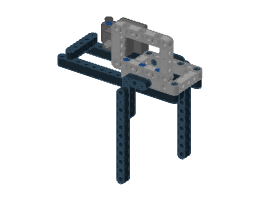
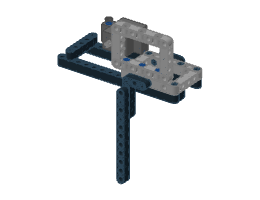
v3: 平台支腿接到底座大框（用户指出支腿只踩在桌面上）
贴着大框长边外侧的那根支腿：11 孔竖梁上移一个孔，下端接一根倒放的 3x5 L 形梁，
短臂用 1 个摩擦销插进大框长边的侧孔。平台一头用销接竖墙、一头经这根支腿接底座，形成闭环。
为了能装上（销都沿同一方向插），这根竖梁和它的 4 个销挪到“装平台”这一步，最后从外面压上去。
另一根支腿在大框开口里，没有能对上的孔，仍踩在桌面上，只承受竖直方向的力。
第 11 步改为从另一侧、只取景当前模块，看得到这处连接。run_check 0 问题，four_arm 不变，单元测试通过。

Claude-Session: https://claude.ai/code/session_01Ms6v6oKbLQsBqZ2uktk7cX

Changed region(s): [[0.6769, 0.42, 0.7385, 0.81], [0.7077, 0.3, 0.7385, 0.33]]

diff --git a/docs/lego/v3/index.html b/docs/lego/v3/index.html
@@ -98,7 +98,7 @@ ul.plain{margin:0;padding-left:1.2em;display:grid;gap:6px;max-width:70ch}
 <h1>四臂整机: 死点锁紧夹爪 + 不随转的舵机</h1>
 <p class="lead">v2 解决了 "机械臂挂在马达输出轴上" 的问题, 但它仍然是一只单臂, 转动部分又长又重, 舵机跟着转。CubeStormer 3 这一级别的机器, 专业性体现在整机: 四只机械手又短又轻、夹得住也松得开、能连续旋转, 四只之间互不干涉。v3 按这个目标从整机重新设计, 自成一套模型和检查。之前的版本都保留不动: <a href="https://claude.ai/artifact/BWgtEpkX4PGRGnYzvNV2L4">v1 大马达版</a>、<a href="https://claude.ai/artifact/9yGEt1ogaxxmStkyxYWYBL">v2 转盘版</a>。</p>
 <div class="plate"><img src="img/cover.png" alt="四臂整机总览" class="" loading="lazy" width="1400" height="900"></div>
-<div class="facts"><div class="fact"><b>20</b><span>个步骤 (一个模块的完整步骤, 其余三个照做)</span></div><div class="fact"><b>500</b><span>个乐高零件, 另加 EV3 大马达和 Geekservo 各 4 个</span></div><div class="fact"><b>约 52 mm</b><span>转动部分长度 (v2 约 144mm)</span></div><div class="fact"><b>无限</b><span>机械手旋转范围 (舵机不跟着转)</span></div></div>
+<div class="facts"><div class="fact"><b>20</b><span>个步骤 (一个模块的完整步骤, 其余三个照做)</span></div><div class="fact"><b>516</b><span>个乐高零件, 另加 EV3 大马达和 Geekservo 各 4 个</span></div><div class="fact"><b>约 52 mm</b><span>转动部分长度 (v2 约 144mm)</span></div><div class="fact"><b>无限</b><span>机械手旋转范围 (舵机不跟着转)</span></div></div>
 <script type="importmap">{"imports":{"three":"https://cdn.jsdelivr.net/npm/three@0.170.0/build/three.module.js","three/addons/":"https://cdn.jsdelivr.net/npm/three@0.170.0/examples/jsm/"}}</script>
 <section id="v3d-sec" class="cover"><h2>3D 模型 (可旋转)</h2><p class="cap">拖动旋转, 滚轮或双指缩放, 右键或双指拖动平移。滑块选到第几步, 就显示到那一步为止的零件, 这一步新加的零件会提亮。</p><div id="v3d" class="plate"><div id="v3d-status">正在加载 3D 模型 (约 0.6 MB)…</div></div><div class="v3d-bar"><input id="v3d-step" type="range" min="1" max="1" value="1" disabled aria-label="步骤"><span id="v3d-label"></span><button id="v3d-fit" type="button">复位</button></div><script>window.V3D_STEPS = ["底座", "竖墙", "转盘下半", "马达尾脚", "马达前梁", "齿轮", "装竖墙", "装马达", "舵机平台", "舵机", "装平台", "十字块和舵机连杆", "侧板与夹指架", "转盘上半", "夹指", "连杆与十字接头", "推杆", "装机械头", "装另外三个机械手", "放入魔方"];</script><script type="module" src="viewer.js"></script></section>
 <nav class="toc"><a href="#v3d-sec">3D 模型</a><a href="#eval">v2 评估</a><a href="#idea">设计思路</a><a href="#four">四臂检查</a><a href="#buy">要买的零件</a><a href="#bom">零件清单</a><a href="#s1">1. 底座</a><a href="#s2">2. 竖墙</a><a href="#s3">3. 转盘下半</a><a href="#s4">4. 马达尾脚</a><a href="#s5">5. 马达前梁</a><a href="#s6">6. 齿轮</a><a href="#s7">7. 装竖墙</a><a href="#s8">8. 装马达</a><a href="#s9">9. 舵机平台</a><a href="#s10">10. 舵机</a><a href="#s11">11. 装平台</a><a href="#s12">12. 十字块和舵机连杆</a><a href="#s13">13. 侧板与夹指架</a><a href="#s14">14. 转盘上半</a><a href="#s15">15. 夹指</a><a href="#s16">16. 连杆与十字接头</a><a href="#s17">17. 推杆</a><a href="#s18">18. 装机械头</a><a href="#s19">19. 装另外三个机械手</a><a href="#s20">20. 放入魔方</a><a href="#checks">检查与待验证</a><a href="#safety">上电前</a></nav>
@@ -120,7 +120,7 @@ ul.plain{margin:0;padding-left:1.2em;display:grid;gap:6px;max-width:70ch}
 <div class="note"><b>相邻两只机械手不能同时水平。</b>这是任何从外侧夹住魔方的夹爪都有的几何限制: 两只相邻机械手都转到水平时, 两副夹指会在魔方棱边外面的同一个位置相遇。v3 把它写进了规划器的可选约束 (<code>python -m quadcuber plan ... --no-adjacent-horizontal</code>): 转动中的机械手, 两侧邻居必须竖直且不同时转动。按现在的估算耗时, 20 步随机序列平均从 7.95 秒变成 9.69 秒 (约 +22%)。</div>
 </section>
 <section id="buy" class="cover"><h2>要买的零件</h2>
-<div class="tbl"><table><tr><th>零件</th><th>编号</th><th>整机</th><th>45680 里有</th><th>还要买</th><th>说明</th></tr><tr><td>60 齿转盘 上半 + 下半 (套)</td><td>18938 + 18939</td><td>4</td><td>2</td><td>2</td><td>每只机械手 1 套</td></tr><tr><td>36 齿双面锥齿轮</td><td>32498</td><td>4</td><td>2</td><td>2</td><td>和转盘外圈啮合</td></tr><tr><td>15x11 大框</td><td>39790</td><td>4</td><td>4</td><td>不用买</td><td>底座, 每个模块 1 块</td></tr><tr><td>7x5 框架</td><td>64179</td><td>20</td><td>8</td><td>12</td><td>每个模块 5 块 (竖墙 3、推杆导向 1、平台前半 1)</td></tr><tr><td>3x5 L 形粗梁</td><td>32526</td><td>28</td><td>10</td><td>18</td><td>机械头侧板每侧 2 根, 平台支腿每侧 1 根, 底座每个角 1 根</td></tr><tr><td>15 孔粗梁</td><td>32278</td><td>16</td><td>6</td><td>10</td><td>平台下 2 根, 底座每个角 2 根</td></tr><tr><td>11 孔粗梁</td><td>32525</td><td>12</td><td>6</td><td>6</td><td>支腿竖梁、马达前端</td></tr><tr><td>9 孔粗梁</td><td>40490</td><td>12</td><td>8</td><td>4</td><td>马达前端、机械头</td></tr><tr><td>7 孔粗梁</td><td>32524</td><td>12</td><td>6</td><td>6</td><td>夹指、马达尾脚</td></tr><tr><td>5 孔粗梁</td><td>32316</td><td>20</td><td>8</td><td>12</td><td>舵机垫块、连杆、平台后端横撑</td></tr><tr><td>3 孔粗梁</td><td>32523</td><td>4</td><td>10</td><td>不用买</td><td>马达颈部</td></tr><tr><td>摩擦销</td><td>2780</td><td>236</td><td>80</td><td>156</td><td>多买一些备用</td></tr><tr><td>蓝色长摩擦销</td><td>6558</td><td>24</td><td>36</td><td>不用买</td><td></td></tr><tr><td>带挡套长销</td><td>32054</td><td>16</td><td>12</td><td>4</td><td>转盘下半和马达耳朵</td></tr><tr><td>无摩擦销 / 无摩擦长销</td><td>3673 / 32556a</td><td>—</td><td>—</td><td>—</td><td>夹爪的活动关节: 8 / 4</td></tr><tr><td>2 号 / 5 号 / 7 号 / 12 号轴</td><td>32062 / 32073 / 44294 / 3708</td><td>—</td><td>—</td><td>—</td><td>8 / 8 / 4 / 4</td></tr><tr><td>轴套 / 半轴套</td><td>3713 / 32123</td><td>—</td><td>—</td><td>—</td><td>20 / 16</td></tr><tr><td>十字轴接头 (带圆孔) / 十字块 1x2 / 2 孔细梁</td><td>32039 / 6536 / 41677</td><td>—</td><td>—</td><td>—</td><td>各 4</td></tr><tr><td>EV3 大马达 / Geekservo 灰色</td><td>—</td><td>—</td><td>—</td><td>—</td><td>4 / 4; 现在只有 2 个大马达, 还缺 2 个</td></tr></table></div>
+<div class="tbl"><table><tr><th>零件</th><th>编号</th><th>整机</th><th>45680 里有</th><th>还要买</th><th>说明</th></tr><tr><td>60 齿转盘 上半 + 下半 (套)</td><td>18938 + 18939</td><td>4</td><td>2</td><td>2</td><td>每只机械手 1 套</td></tr><tr><td>36 齿双面锥齿轮</td><td>32498</td><td>4</td><td>2</td><td>2</td><td>和转盘外圈啮合</td></tr><tr><td>15x11 大框</td><td>39790</td><td>4</td><td>4</td><td>不用买</td><td>底座, 每个模块 1 块</td></tr><tr><td>7x5 框架</td><td>64179</td><td>20</td><td>8</td><td>12</td><td>每个模块 5 块 (竖墙 3、推杆导向 1、平台前半 1)</td></tr><tr><td>3x5 L 形粗梁</td><td>32526</td><td>32</td><td>10</td><td>22</td><td>机械头侧板每侧 2 根, 平台支腿每侧 1 根, 底座每个角 1 根</td></tr><tr><td>15 孔粗梁</td><td>32278</td><td>16</td><td>6</td><td>10</td><td>平台下 2 根, 底座每个角 2 根</td></tr><tr><td>11 孔粗梁</td><td>32525</td><td>12</td><td>6</td><td>6</td><td>支腿竖梁、马达前端</td></tr><tr><td>9 孔粗梁</td><td>40490</td><td>12</td><td>8</td><td>4</td><td>马达前端、机械头</td></tr><tr><td>7 孔粗梁</td><td>32524</td><td>12</td><td>6</td><td>6</td><td>夹指、马达尾脚</td></tr><tr><td>5 孔粗梁</td><td>32316</td><td>20</td><td>8</td><td>12</td><td>舵机垫块、连杆、平台后端横撑</td></tr><tr><td>3 孔粗梁</td><td>32523</td><td>4</td><td>10</td><td>不用买</td><td>马达颈部</td></tr><tr><td>摩擦销</td><td>2780</td><td>248</td><td>80</td><td>168</td><td>多买一些备用</td></tr><tr><td>蓝色长摩擦销</td><td>6558</td><td>24</td><td>36</td><td>不用买</td><td></td></tr><tr><td>带挡套长销</td><td>32054</td><td>16</td><td>12</td><td>4</td><td>转盘下半和马达耳朵</td></tr><tr><td>无摩擦销 / 无摩擦长销</td><td>3673 / 32556a</td><td>—</td><td>—</td><td>—</td><td>夹爪的活动关节: 8 / 4</td></tr><tr><td>2 号 / 5 号 / 7 号 / 12 号轴</td><td>32062 / 32073 / 44294 / 3708</td><td>—</td><td>—</td><td>—</td><td>8 / 8 / 4 / 4</td></tr><tr><td>轴套 / 半轴套</td><td>3713 / 32123</td><td>—</td><td>—</td><td>—</td><td>20 / 16</td></tr><tr><td>十字轴接头 (带圆孔) / 十字块 1x2 / 2 孔细梁</td><td>32039 / 6536 / 41677</td><td>—</td><td>—</td><td>—</td><td>各 4</td></tr><tr><td>EV3 大马达 / Geekservo 灰色</td><td>—</td><td>—</td><td>—</td><td>—</td><td>4 / 4; 现在只有 2 个大马达, 还缺 2 个</td></tr></table></div>
 <p class="cap">"45680 里有" 按 Brickset 的 45680 (SPIKE Prime 扩展套装) 零件清单, 不分颜色; 最后几行 45680 里没有或数量对不上型号的, 按 "说明" 里的数量买。你手上其他零件没算进去。</p>
 <p class="cap">可以先只搭一个模块 (底座只要它那一块大框) 做单臂实测, 验证夹持和转速后再买齐四套。</p>
 </section>
@@ -138,7 +138,7 @@ ul.plain{margin:0;padding-left:1.2em;display:grid;gap:6px;max-width:70ch}
 <div class="item"><img src="img/part_32524_4.png" alt="7 孔粗梁" class="" loading="lazy" width="260" height="200"><div class="qty">8×</div><div>7 孔粗梁</div><div class="mono">32524</div></div>
 <div class="item"><img src="img/part_32525_0.png" alt="11 孔粗梁" class="" loading="lazy" width="260" height="200"><div class="qty">12×</div><div>11 孔粗梁</div><div class="mono">32525</div></div>
 <div class="item"><img src="img/part_32526_72.png" alt="3x5 L 形粗梁" class="" loading="lazy" width="260" height="200"><div class="qty">4×</div><div>3x5 L 形粗梁</div><div class="mono">32526</div></div>
-<div class="item"><img src="img/part_32526_0.png" alt="3x5 L 形粗梁" class="" loading="lazy" width="260" height="200"><div class="qty">8×</div><div>3x5 L 形粗梁</div><div class="mono">32526</div></div>
+<div class="item"><img src="img/part_32526_0.png" alt="3x5 L 形粗梁" class="" loading="lazy" width="260" height="200"><div class="qty">12×</div><div>3x5 L 形粗梁</div><div class="mono">32526</div></div>
 <div class="item"><img src="img/part_32526_71.png" alt="3x5 L 形粗梁" class="" loading="lazy" width="260" height="200"><div class="qty">16×</div><div>3x5 L 形粗梁</div><div class="mono">32526</div></div>
 <div class="item"><img src="img/part_39790_72.png" alt="15x11 大框 (45680 套装)" class="" loading="lazy" width="260" height="200"><div class="qty">4×</div><div>15x11 大框 (45680 套装)</div><div class="mono">39790</div></div>
 <div class="item"><img src="img/part_40490_0.png" alt="9 孔粗梁" class="" loading="lazy" width="260" height="200"><div class="qty">12×</div><div>9 孔粗梁</div><div class="mono">40490</div></div>
@@ -147,7 +147,7 @@ ul.plain{margin:0;padding-left:1.2em;display:grid;gap:6px;max-width:70ch}
 <div class="item"><img src="img/part_6536_0.png" alt="十字块 1x2 (十字孔 + 圆孔)" class="" loading="lazy" width="260" height="200"><div class="qty">4×</div><div>十字块 1x2 (十字孔 + 圆孔)</div><div class="mono">6536</div></div>
 <div class="item"><img src="img/part_95658_15.png" alt="EV3 大马达" class="" loading="lazy" width="260" height="200"><div class="qty">4×</div><div>EV3 大马达</div><div class="mono">95658</div></div>
 <div class="item"><img src="img/part_geekservo_72.png" alt="Geekservo 舵机 (灰色, 270°)" class="" loading="lazy" width="260" height="200"><div class="qty">4×</div><div>Geekservo 舵机 (灰色, 270°)</div><div class="mono">geekservo</div></div>
-<div class="item"><img src="img/part_2780_0.png" alt="摩擦销 (2 孔长)" class="" loading="lazy" width="260" height="200"><div class="qty">236×</div><div>摩擦销 (2 孔长)</div><div class="mono">2780</div></div>
+<div class="item"><img src="img/part_2780_0.png" alt="摩擦销 (2 孔长)" class="" loading="lazy" width="260" height="200"><div class="qty">248×</div><div>摩擦销 (2 孔长)</div><div class="mono">2780</div></div>
 <div class="item"><img src="img/part_32054_4.png" alt="带挡套长销 (3 孔长, 红色)" class="" loading="lazy" width="260" height="200"><div class="qty">16×</div><div>带挡套长销 (3 孔长, 红色)</div><div class="mono">32054</div></div>
 <div class="item"><img src="img/part_32062_0.png" alt="2 号轴" class="" loading="lazy" width="260" height="200"><div class="qty">8×</div><div>2 号轴</div><div class="mono">32062</div></div>
 <div class="item"><img src="img/part_32073_0.png" alt="5 号轴" class="" loading="lazy" width="260" height="200"><div class="qty">8×</div><div>5 号轴</div><div class="mono">32073</div></div>
@@ -244,9 +244,9 @@ ul.plain{margin:0;padding-left:1.2em;display:grid;gap:6px;max-width:70ch}
 <div class="subtag">子组件 · 平台</div>
 <h3>舵机平台</h3></div>
 </div>
-<div class="callout"><div class="chip"><img src="img/part_64179_71.png" alt="7x5 框架" class="" loading="lazy" width="260" height="200"><div class="x">2×</div><div class="n">7x5 框架</div></div><div class="chip"><img src="img/part_32278_0.png" alt="15 孔粗梁" class="" loading="lazy" width="260" height="200"><div class="x">2×</div><div class="n">15 孔粗梁</div></div><div class="chip"><img src="img/part_2780_0.png" alt="摩擦销 (2 孔长)" class="" loading="lazy" width="260" height="200"><div class="x">18×</div><div class="n">摩擦销 (2 孔长)</div></div><div class="chip"><img src="img/part_32316_0.png" alt="5 孔粗梁" class="" loading="lazy" width="260" height="200"><div class="x">2×</div><div class="n">5 孔粗梁</div></div><div class="chip"><img src="img/part_32526_0.png" alt="3x5 L 形粗梁" class="" loading="lazy" width="260" height="200"><div class="x">2×</div><div class="n">3x5 L 形粗梁</div></div><div class="chip"><img src="img/part_32525_0.png" alt="11 孔粗梁" class="" loading="lazy" width="260" height="200"><div class="x">2×</div><div class="n">11 孔粗梁</div></div><div class="chip"><img src="img/part_6558_1.png" alt="长摩擦销 (3 孔长)" class="" loading="lazy" width="260" height="200"><div class="x">3×</div><div class="n">长摩擦销 (3 孔长)</div></div></div>
+<div class="callout"><div class="chip"><img src="img/part_64179_71.png" alt="7x5 框架" class="" loading="lazy" width="260" height="200"><div class="x">2×</div><div class="n">7x5 框架</div></div><div class="chip"><img src="img/part_32278_0.png" alt="15 孔粗梁" class="" loading="lazy" width="260" height="200"><div class="x">2×</div><div class="n">15 孔粗梁</div></div><div class="chip"><img src="img/part_2780_0.png" alt="摩擦销 (2 孔长)" class="" loading="lazy" width="260" height="200"><div class="x">16×</div><div class="n">摩擦销 (2 孔长)</div></div><div class="chip"><img src="img/part_32316_0.png" alt="5 孔粗梁" class="" loading="lazy" width="260" height="200"><div class="x">2×</div><div class="n">5 孔粗梁</div></div><div class="chip"><img src="img/part_32526_0.png" alt="3x5 L 形粗梁" class="" loading="lazy" width="260" height="200"><div class="x">2×</div><div class="n">3x5 L 形粗梁</div></div><div class="chip"><img src="img/part_32525_0.png" alt="11 孔粗梁" class="" loading="lazy" width="260" height="200"><div class="x">1×</div><div class="n">11 孔粗梁</div></div><div class="chip"><img src="img/part_6558_1.png" alt="长摩擦销 (3 孔长)" class="" loading="lazy" width="260" height="200"><div class="x">3×</div><div class="n">长摩擦销 (3 孔长)</div></div></div>
 <div class="plate"><img src="img/step09.png" alt="舵机平台" class="" loading="lazy" width="1200" height="860"></div>
-<p>两根 15 孔粗梁平放、平行, 相距 4 个孔。一块 7x5 框架平放压在两根梁的前段上 (框架前端和梁前端对齐), 5 个摩擦销竖着连起来 (框架正面孔: 一根梁 4 个, 另一根梁只插最前面 1 个, 其余 3 个孔留给导向框架的长销)。两根梁的最后一个孔上横压一根 5 孔粗梁, 2 个摩擦销, 让后段也连成封闭的长方形。梁的后段上面, 舵机那一侧压一根 5 孔粗梁当舵机垫块, 3 个摩擦销。支腿: 框架两条长边外侧各贴一根 3x5 L 形梁, 短臂沿推杆方向, 2 个摩擦销插进框架长边的侧孔, 长臂朝下; 长臂外面再用 2 个摩擦销接一根竖着的 11 孔粗梁, 下端踩在桌面上。平台前段上面竖立一块框架当推杆导向: 它长边沿推杆方向, 底边用 3 根蓝色长摩擦销竖着插进平台: 1 孔长的一段朝上插进导向框架, 2 孔长的一段穿过平台框架, 一直插进下面那根 15 孔梁; 两条短边上正中的侧孔 (圆孔) 就是推杆的两个轴承。</p>
+<p>两根 15 孔粗梁平放、平行, 相距 4 个孔。一块 7x5 框架平放压在两根梁的前段上 (框架前端和梁前端对齐), 5 个摩擦销竖着连起来 (框架正面孔: 一根梁 4 个, 另一根梁只插最前面 1 个, 其余 3 个孔留给导向框架的长销)。两根梁的最后一个孔上横压一根 5 孔粗梁, 2 个摩擦销, 让后段也连成封闭的长方形。梁的后段上面, 舵机那一侧压一根 5 孔粗梁当舵机垫块, 3 个摩擦销。支腿: 框架两条长边外侧各贴一根 3x5 L 形梁, 短臂沿推杆方向, 2 个摩擦销插进框架长边的侧孔, 长臂朝下; 一侧的长臂外面再用 2 个摩擦销接一根竖着的 11 孔粗梁, 下端踩在桌面上; 另一侧的竖梁在装平台时再装。平台前段上面竖立一块框架当推杆导向: 它长边沿推杆方向, 底边用 3 根蓝色长摩擦销竖着插进平台: 1 孔长的一段朝上插进导向框架, 2 孔长的一段穿过平台框架, 一直插进下面那根 15 孔梁; 两条短边上正中的侧孔 (圆孔) 就是推杆的两个轴承。</p>
 </section>
 <section class="step sub" id="s10">
 <div class="step-head">
@@ -263,9 +263,9 @@ ul.plain{margin:0;padding-left:1.2em;display:grid;gap:6px;max-width:70ch}
 <div class="num">11</div><div class="title-block">
 <h3>装平台</h3></div>
 </div>
-<div class="callout"><div class="chip"><img src="img/sub3.png" alt="平台" class="" loading="lazy" width="260" height="200"><div class="x">1×</div><div class="n">做好的平台</div></div><div class="chip"><img src="img/part_2780_0.png" alt="摩擦销 (2 孔长)" class="" loading="lazy" width="260" height="200"><div class="x">2×</div><div class="n">摩擦销 (2 孔长)</div></div></div>
+<div class="callout"><div class="chip"><img src="img/sub3.png" alt="平台" class="" loading="lazy" width="260" height="200"><div class="x">1×</div><div class="n">做好的平台</div></div><div class="chip"><img src="img/part_2780_0.png" alt="摩擦销 (2 孔长)" class="" loading="lazy" width="260" height="200"><div class="x">7×</div><div class="n">摩擦销 (2 孔长)</div></div><div class="chip"><img src="img/part_32526_0.png" alt="3x5 L 形粗梁" class="" loading="lazy" width="260" height="200"><div class="x">1×</div><div class="n">3x5 L 形粗梁</div></div><div class="chip"><img src="img/part_32525_0.png" alt="11 孔粗梁" class="" loading="lazy" width="260" height="200"><div class="x">1×</div><div class="n">11 孔粗梁</div></div></div>
 <div class="plate"><img src="img/step11.png" alt="装平台" class="" loading="lazy" width="1200" height="860"></div>
-<p>平台前端顶住竖墙背面, 2 个摩擦销沿推杆方向穿进墙的孔。检查导向框架的两个轴承孔、转盘中孔在一条直线上。</p>
+<p>平台前端顶住竖墙背面, 2 个摩擦销沿推杆方向穿进墙的孔。检查导向框架的两个轴承孔、转盘中孔在一条直线上。然后装另一根支腿并接到底座: 在大框长边外侧的侧孔 (看图) 插 1 个摩擦销, 套上一根 3x5 L 形梁 (拐角朝下, 短臂朝魔方方向, 短臂第 2 个孔套在这个销上); 在它长臂上面 2 个孔、平台那根 L 形梁长臂下面 2 个孔各插摩擦销, 最后把一根 11 孔粗梁竖着从外面压到 4 个销上 (上面 2 个在平台的 L 形梁上, 下面 2 个在这根 L 形梁上)。</p>
 </section>
 <section class="step" id="s12">
 <div class="step-head">

diff --git a/tools/lego/v3/model.py b/tools/lego/v3/model.py
@@ -363,7 +363,7 @@ def module(open_s=0.0, angle=0.0, steps=True, on_base=False):
     s = st("舵机平台", "两根 15 孔粗梁平放、平行, 相距 4 个孔。一块 7x5 框架平放压在两根梁的前段上 (框架前端和梁前端对齐), "
            "5 个摩擦销竖着连起来 (框架正面孔: 一根梁 4 个, 另一根梁只插最前面 1 个, 其余 3 个孔留给导向框架的长销)。两根梁的最后一个孔上横压一根 5 孔粗梁, 2 个摩擦销, 让后段也连成封闭的长方形。"
            "梁的后段上面, 舵机那一侧压一根 5 孔粗梁当舵机垫块, 3 个摩擦销。支腿: 框架两条长边外侧各贴一根 3x5 L 形梁, "
-           "短臂沿推杆方向, 2 个摩擦销插进框架长边的侧孔, 长臂朝下; 长臂外面再用 2 个摩擦销接一根竖着的 11 孔粗梁, 下端踩在桌面上。平台前段上面竖立一块框架当推杆导向: 它长边沿推杆方向, 底边用 3 根蓝色长摩擦销竖着插进平台: 1 孔长的一段朝上插进导向框架, 2 孔长的一段穿过平台框架, 一直插进下面那根 15 孔梁; "
+           "短臂沿推杆方向, 2 个摩擦销插进框架长边的侧孔, 长臂朝下; 一侧的长臂外面再用 2 个摩擦销接一根竖着的 11 孔粗梁, 下端踩在桌面上; 另一侧的竖梁在装平台时再装。平台前段上面竖立一块框架当推杆导向: 它长边沿推杆方向, 底边用 3 根蓝色长摩擦销竖着插进平台: 1 孔长的一段朝上插进导向框架, 2 孔长的一段穿过平台框架, 一直插进下面那根 15 孔梁; "
            "两条短边上正中的侧孔 (圆孔) 就是推杆的两个轴承。", sub="平台", view=(30, 40))
     add("64179.dat", C_FRAME, (-330, 60, 40), FRAME_XZ_LONG_X, s)
     for z in (0, 80):
@@ -381,9 +381,10 @@ def module(open_s=0.0, angle=0.0, steps=True, on_base=False):
         add("32526.dat", C_BEAM, (lx, 140, z_l), lrot, s)
         for x in (lx, lx + 40 * arm_dir):
             add("2780.dat", C_PIN, (x, 60, z_e), ALONG_Z, s)
-        add("32525.dat", C_BEAM, (lx, 180, z_b), BEAM_Y_HOLES_Z, s)
-        for y in (100, 140):
-            add("2780.dat", C_PIN, (lx, y, (z_l + z_b) / 2), ALONG_Z, s)
+        if arm_dir > 0:  # 这一侧在底座大框的开口里, 竖梁踩在桌面上; 另一侧的竖梁和它的销在 "装平台" 时才装
+            add("32525.dat", C_BEAM, (lx, 180, z_b), BEAM_Y_HOLES_Z, s)
+            for y in (100, 140):
+                add("2780.dat", C_PIN, (lx, y, (z_l + z_b) / 2), ALONG_Z, s)
     gf_c = np.array([-350.0, 0.0, 0.0])
     add("64179.dat", C_FRAME, gf_c, FRAME_XY_LONG_X, s)
     # 导向框架底边的 3 个销用蓝色长销, 一直穿过平台框架插进下面那根 15 孔梁 (否则这根梁只有 1 个销, 用户 2026-09-29 指出):
@@ -399,10 +400,22 @@ def module(open_s=0.0, angle=0.0, steps=True, on_base=False):
     add("geekservo.dat", C_SERVO, SERVO_C, SERVO_ROT, s)
     for dx in (-40, 40):
         add("6558.dat", C_LPIN, (SERVO_C[0] + dx, 40, SERVO_C[2]), LPIN_SHORT_Y, s)
-    s = st("装平台", "平台前端顶住竖墙背面, 2 个摩擦销沿推杆方向穿进墙的孔。检查导向框架的两个轴承孔、转盘中孔在一条直线上。",
-           attach=("平台",), view=(30, 40))
+    s = st("装平台", "平台前端顶住竖墙背面, 2 个摩擦销沿推杆方向穿进墙的孔。检查导向框架的两个轴承孔、转盘中孔在一条直线上。"
+           "然后装另一根支腿并接到底座: 在大框长边外侧的侧孔 (看图) 插 1 个摩擦销, 套上一根 3x5 L 形梁 (拐角朝下, 短臂朝魔方方向, "
+           "短臂第 2 个孔套在这个销上); 在它长臂上面 2 个孔、平台那根 L 形梁长臂下面 2 个孔各插摩擦销, 最后把一根 11 孔粗梁竖着从外面压到 4 个销上 "
+           "(上面 2 个在平台的 L 形梁上, 下面 2 个在这根 L 形梁上)。",
+           attach=("平台",), view=(150, 30), focus="module")
     for z in (20, 60):
         add("2780.dat", C_PIN, (WALL_X - 10, 60, z), ALONG_X, s)
+    # 支腿接底座 (用户 2026-09-29 指出支腿没接底座): 大框长边外侧这一侧, 平台装好后先在大框长边的侧孔插 1 个销,
+    # 套上一根倒放的 3x5 L 形梁 (短臂贴着大框), 再在它上面插好销, 最后把 11 孔竖梁从外面压上去。
+    # 所有销都沿同一方向插, 零件都从外侧往里压。
+    if on_base:
+        add("2780.dat", C_PIN, (-310, 260, 90), ALONG_Z, s)
+    add("32526.dat", C_BEAM, (-330, 180, 100), orient("+x", "-z", "+y"), s)
+    for y in (100, 140, 180, 220):
+        add("2780.dat", C_PIN, (-330, y, 110), ALONG_Z, s)
+    add("32525.dat", C_BEAM, (-330, 160, 120), BEAM_Y_HOLES_Z, s)
 
     # 推杆 + 曲柄滑块 (舵机侧)
     th, x0 = servo_theta_for(open_s)
